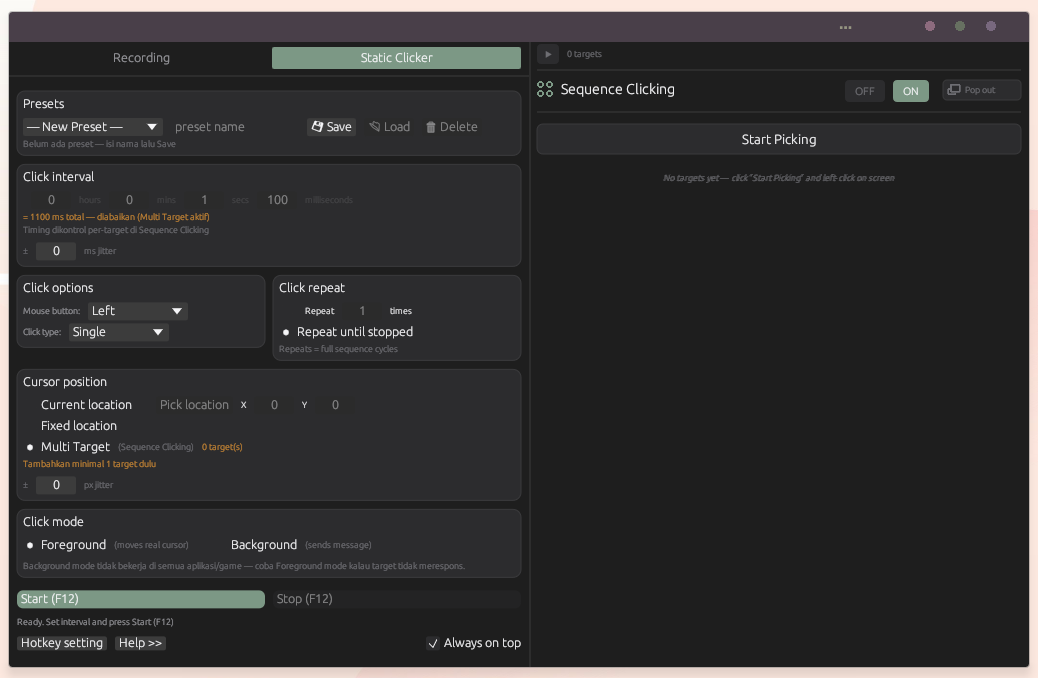
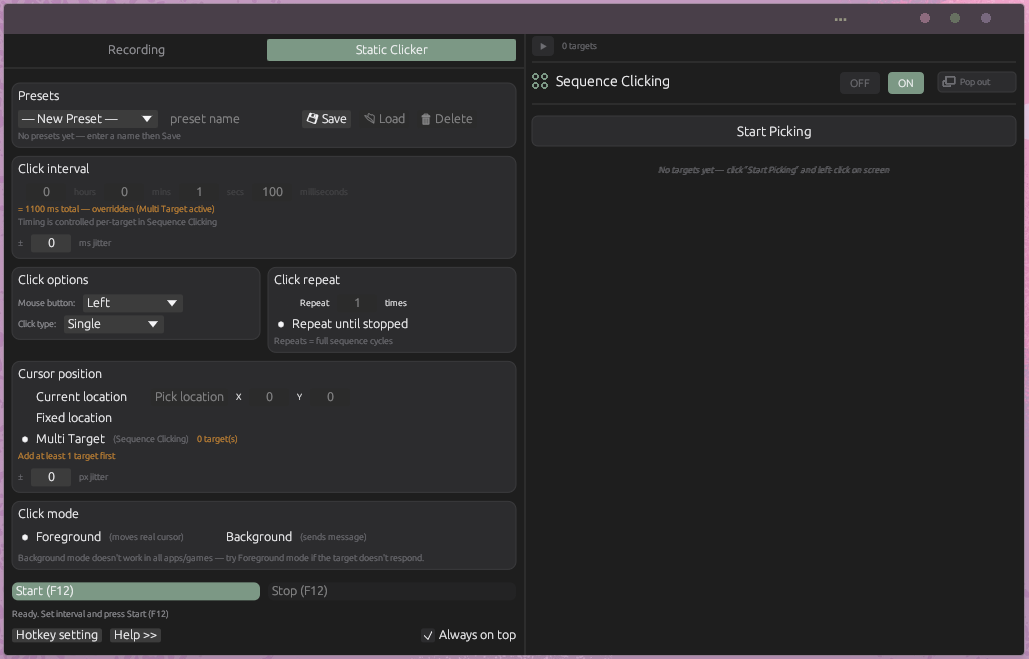
i18n: translate all Static Clicker UI strings from Indonesian to English

diff --git a/src/ui/static_clicker_window.rs b/src/ui/static_clicker_window.rs
@@ -392,7 +392,7 @@ impl StaticClickerWindow {
                         }
                     });
                     if preset_names.is_empty() {
-                        ui.label(RichText::new("Belum ada preset — isi nama lalu Save").small().color(theme::TEXT_MUTED));
+                        ui.label(RichText::new("No presets yet — enter a name then Save").small().color(theme::TEXT_MUTED));
                     }
                 });
 
@@ -425,7 +425,7 @@ impl StaticClickerWindow {
                     let total = self.total_ms();
                     let mut text = format!("= {} ms total{}", total, if total < 1 { " (clamped to 1ms)" } else { "" });
                     if interval_global_disabled {
-                        text.push_str(" — diabaikan (Multi Target aktif)");
+                        text.push_str(" — overridden (Multi Target active)");
                     }
                     ui.label(
                         RichText::new(text)
@@ -434,7 +434,7 @@ impl StaticClickerWindow {
                     );
                     if interval_global_disabled {
                         ui.label(
-                            RichText::new("Timing dikontrol per-target di Sequence Clicking")
+                            RichText::new("Timing is controlled per-target in Sequence Clicking")
                                 .small()
                                 .color(theme::TEXT_MUTED),
                         );
@@ -621,7 +621,7 @@ impl StaticClickerWindow {
                         }
                         if is_multitarget && self.sequence_targets.is_empty() && self.sequence_enabled {
                             ui.label(
-                                RichText::new("Tambahkan minimal 1 target dulu")
+                                RichText::new("Add at least 1 target first")
                                     .small()
                                     .color(theme::WARNING),
                             );
@@ -703,7 +703,7 @@ impl StaticClickerWindow {
                     ui.add_space(4.0);
                     ui.label(
                         RichText::new(
-                            "Background mode tidak bekerja di semua aplikasi/game — coba Foreground mode kalau target tidak merespons.",
+                            "Background mode doesn't work in all apps/games — try Foreground mode if the target doesn't respond.",
                         )
                         .small()
                         .color(theme::TEXT_MUTED),
@@ -956,16 +956,16 @@ impl StaticClickerWindow {
                 .resizable(false)
                 .collapsible(false)
                 .show(ctx, |ui| {
-                    ui.label(format!("Preset '{}' sudah ada. Timpa?", self.pending_overwrite_name));
-                    ui.label(RichText::new("Preset lama akan hilang.").small().color(theme::WARNING));
+                    ui.label(format!("Preset '{}' already exists. Overwrite?", self.pending_overwrite_name));
+                    ui.label(RichText::new("The previous preset will be overwritten.").small().color(theme::WARNING));
                     ui.horizontal(|ui| {
-                        if ui.button("Ya, Timpa").clicked() {
+                        if ui.button("Yes, Overwrite").clicked() {
                             let name = self.pending_overwrite_name.clone();
                             let preset = self.build_preset(name);
                             self.do_save_preset(preset);
                             self.show_overwrite_confirm = false;
                         }
-                        if ui.button("Batal").clicked() {
+                        if ui.button("Cancel").clicked() {
                             self.show_overwrite_confirm = false;
                         }
                     });
@@ -978,20 +978,20 @@ impl StaticClickerWindow {
         // ---- Preset delete confirm dialog ----
         if self.show_delete_confirm {
             let mut open = self.show_delete_confirm;
-            egui::Window::new("Hapus preset?")
+            egui::Window::new("Delete preset?")
                 .open(&mut open)
                 .resizable(false)
                 .collapsible(false)
                 .show(ctx, |ui| {
-                    ui.label(format!("Hapus preset '{}' ?", self.pending_delete_name));
-                    ui.label(RichText::new("Tidak bisa di-undo.").small().color(theme::WARNING));
+                    ui.label(format!("Delete preset '{}'?", self.pending_delete_name));
+                    ui.label(RichText::new("This cannot be undone.").small().color(theme::WARNING));
                     ui.horizontal(|ui| {
-                        if ui.button("Ya, Hapus").clicked() {
+                        if ui.button("Yes, Delete").clicked() {
                             let name = self.pending_delete_name.clone();
                             self.do_delete_preset(name);
                             self.show_delete_confirm = false;
                         }
-                        if ui.button("Batal").clicked() {
+                        if ui.button("Cancel").clicked() {
                             self.show_delete_confirm = false;
                         }
                     });
@@ -1092,7 +1092,7 @@ impl StaticClickerWindow {
     fn handle_preset_save(&mut self) {
         let name = self.preset_input.trim().to_string();
         if name.is_empty() {
-            self.status = "Nama preset tidak boleh kosong — isi nama dulu".to_string();
+            self.status = "Preset name cannot be empty — enter a name first".to_string();
             self.is_warning = true;
             return;
         }
@@ -1123,13 +1123,13 @@ impl StaticClickerWindow {
             }
         });
         self.preset_selected = name.clone();
-        self.status = format!("Preset '{}' disimpan", name);
+        self.status = format!("Preset '{}' saved", name);
         self.is_warning = false;
     }
 
     fn handle_preset_load(&mut self) {
         if self.clicker.is_running() {
-            self.status = "Stop clicker dulu sebelum load preset".to_string();
+            self.status = "Stop the clicker before loading a preset".to_string();
             self.is_warning = true;
             return;
         }
@@ -1139,7 +1139,7 @@ impl StaticClickerWindow {
             self.preset_input.trim().to_string()
         };
         if name.is_empty() {
-            self.status = "Pilih preset dulu".to_string();
+            self.status = "Select a preset first".to_string();
             self.is_warning = true;
             return;
         }
@@ -1151,7 +1151,7 @@ impl StaticClickerWindow {
             .find(|p| p.name == name)
             .cloned();
         let Some(preset) = preset_opt else {
-            self.status = format!("Preset '{}' tidak ditemukan", name);
+            self.status = format!("Preset '{}' not found", name);
             self.is_warning = true;
             return;
         };
@@ -1160,7 +1160,7 @@ impl StaticClickerWindow {
         self.persist_static_state();
         self.preset_selected = name.clone();
         self.preset_input = name.clone();
-        self.status = format!("Preset '{}' dimuat", name);
+        self.status = format!("Preset '{}' loaded", name);
         self.is_warning = false;
     }
 
@@ -1202,7 +1202,7 @@ impl StaticClickerWindow {
             self.preset_input.trim().to_string()
         };
         if name.is_empty() {
-            self.status = "Pilih preset dulu".to_string();
+            self.status = "Select a preset first".to_string();
             self.is_warning = true;
             return;
         }
@@ -1213,7 +1213,7 @@ impl StaticClickerWindow {
             .iter()
             .any(|p| p.name == name);
         if !exists {
-            self.status = format!("Preset '{}' tidak ditemukan", name);
+            self.status = format!("Preset '{}' not found", name);
             self.is_warning = true;
             return;
         }
@@ -1231,7 +1231,7 @@ impl StaticClickerWindow {
         if self.preset_input == name {
             self.preset_input.clear();
         }
-        self.status = format!("Preset '{}' dihapus", name);
+        self.status = format!("Preset '{}' deleted", name);
         self.is_warning = false;
     }
 
@@ -1247,7 +1247,7 @@ impl StaticClickerWindow {
         }
         // MultiTarget validation: empty list not allowed when enabled
         if self.cursor_mode == CursorMode::MultiTarget && self.sequence_enabled && self.sequence_targets.is_empty() {
-            self.status = "Tambahkan minimal 1 target dulu".to_string();
+            self.status = "Add at least 1 target first".to_string();
             self.is_warning = true;
             return;
         }

diff --git a/src/static_clicker.rs b/src/static_clicker.rs
@@ -193,7 +193,7 @@ where
             return run_normal_clicker(fallback, stop, active, on_tick);
         }
         if cfg.sequence_targets.is_empty() {
-            return (false, Some("Tambahkan minimal 1 target dulu".to_string()));
+            return (false, Some("Add at least 1 target first".to_string()));
         }
         return run_sequence_clicker(cfg, stop, active, on_tick);
     }
@@ -315,7 +315,7 @@ where
 {
     let esc = crate::config::HotkeyCombo::new(0, 0x1B);
     if cfg.sequence_targets.is_empty() {
-        return (false, Some("Tambahkan minimal 1 target dulu".to_string()));
+        return (false, Some("Add at least 1 target first".to_string()));
     }
     let total_rounds_opt = match cfg.repeat {
         RepeatMode::Count(n) => Some(n),
